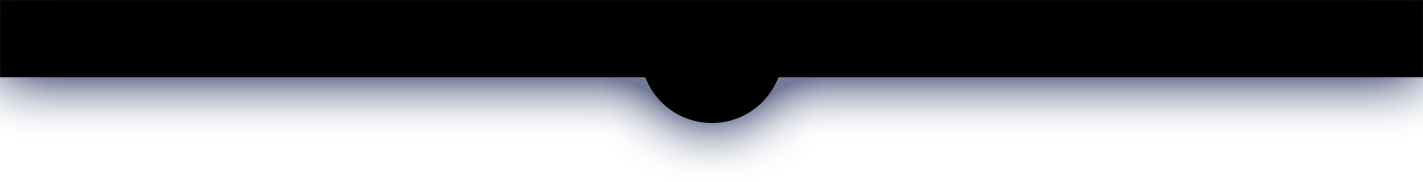
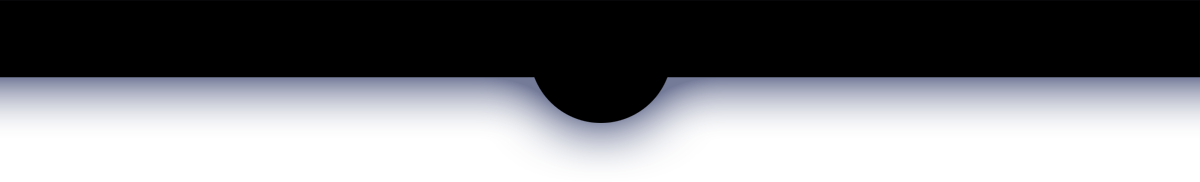
Add tiling background

diff --git a/src/static/css/style.less b/src/static/css/style.less
@@ -38,10 +38,33 @@ body {
   background-repeat: no-repeat;
   position: fixed;
 
+  .tile {
+    background-image: url("@{image-path}/headerBG-tile.png");
+    background-repeat: repeat-x;
+    width: 1000px;
+    height: 138px;
+    display: block;
+    position: absolute;
+  }
+
   .container {
     width: 960px;
     position: relative;
     margin: 0 auto;
+
+    &::before {
+      #header.tile;
+      content: "";
+      top: -10px;
+      right: 1080px;
+    }
+
+    &::after {
+      #header.tile;
+      content: "";
+      top: -10px;
+      left: 1080px;
+    }
 
     #nav {
       position: absolute;
